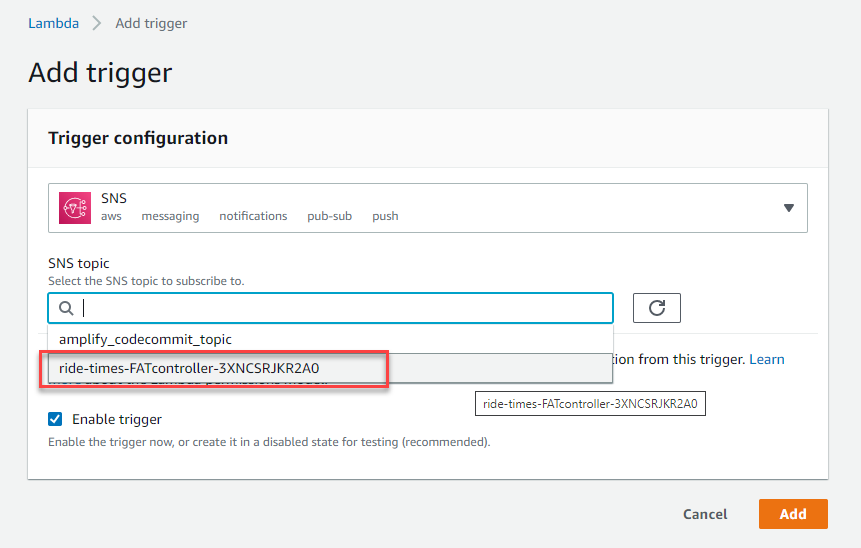
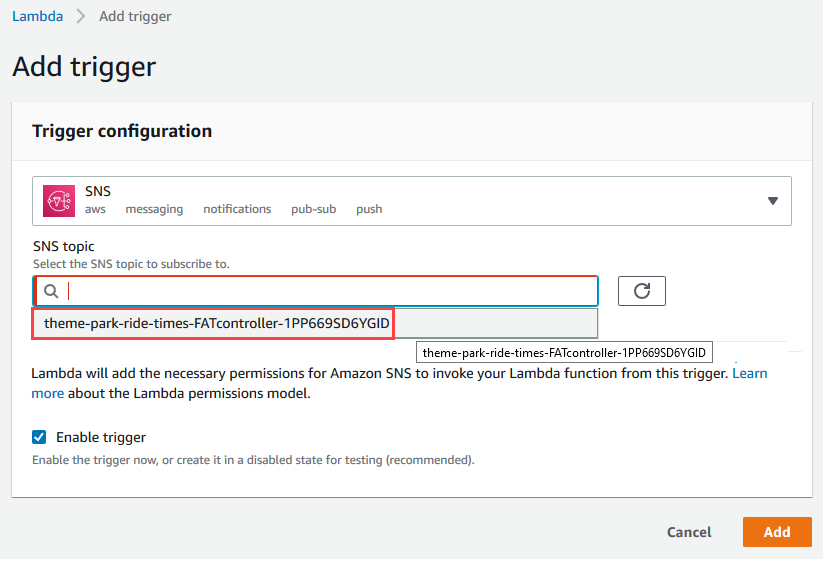
Renamed 'ride-times' stack to 'theme-park-ride-times' for consistency

diff --git a/1-app-deploy/README.md b/1-app-deploy/README.md
@@ -204,10 +204,10 @@ cd ~/environment/theme-park-backend/1-app-deploy/ride-controller/
 ```
 sam package --output-template-file packaged.yaml --s3-bucket $s3_deploy_bucket
 
-sam deploy --template-file packaged.yaml --stack-name ride-times --capabilities CAPABILITY_IAM
+sam deploy --template-file packaged.yaml --stack-name theme-park-ride-times --capabilities CAPABILITY_IAM
 ```
 
-This will take a few minutes to deploy. You can see the deployment progress in the console. Wait until you see the ``Successfully created/updated stack - ride-times`` confirmation message in the console before continuing.
+This will take a few minutes to deploy. You can see the deployment progress in the console. Wait until you see the ``Successfully created/updated stack - theme-park-ride-times`` confirmation message in the console before continuing.
 
 6. Now, change directory:
 ```

diff --git a/2-realtime/README.md b/2-realtime/README.md
@@ -51,7 +51,7 @@ s3_deploy_bucket="theme-park-sam-deploys-${accountId}"
 
 ![Module 2 - Create Function](../images/2-realtime-lambda1.png)
 
-3. Expand the *Designer* section. Select **+ Add trigger**. In the *Trigger configuration* dropdown, choose **SNS**. In the SNS topic selector, select the SNS topic starting with `ride-times`: 
+3. Expand the *Designer* section. Select **+ Add trigger**. In the *Trigger configuration* dropdown, choose **SNS**. In the SNS topic selector, select the SNS topic starting with `theme-park-ride-times`: 
 
 ![Module 2 - SNS](../images/2-realtime-lambda2b.png)
 
